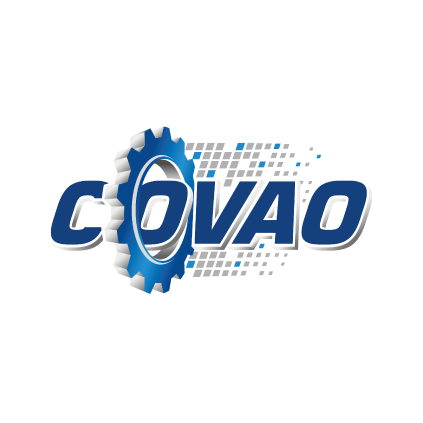
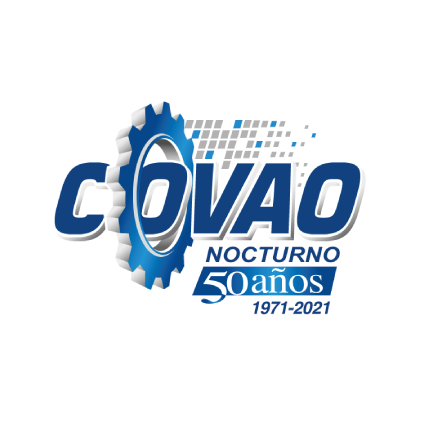
Botones
- Inclusión de nuevas imágenes de los botones y en la página encuentro-vocaciones
- Inclusión en el banner el logo y enlace al encuentro

Changed region(s): [[0.1229, 0.2459, 0.8913, 0.7683], [0.7376, 0.3073, 0.7683, 0.3381]]

diff --git a/css/master.css b/css/master.css
@@ -68,10 +68,26 @@ a.btn-principal {
   color: black!important;
 
 }
+a.btn-text-encuentro {
+  color: white!important;
+}
 
 a.btn-principal:hover {
   color:white!important;
   font-weight: bold;
+}
+
+.btn-principal.focus, 
+.btn-principal.active,
+.btn-principal:not(:disabled):not(.disabled):active:focus
+{
+  color: transparent;
+  background-image: none;
+  background-color: transparent;
+  border: none;
+  border-color: transparent; 
+  box-shadow: none;
+  outline: none;
 }
 
 .ug-under-780.ug-videoskin-right-thumb .ug-thumb-title {
@@ -201,6 +217,17 @@ div.btn-col {
   box-shadow: 3px 3px 0px 0px rgba(0,159,199,0.61)!important;
     background-color: #F18C00!important;
 }
+.btn-encuentro {
+  border-radius: 10px 10px 10px 10px!important;
+  -moz-border-radius: 10px 10px 10px 10px!important;
+  -webkit-border-radius: 10px 10px 10px 10px!important;
+  border: 0px solid #e50b67!important;
+  -webkit-box-shadow: 3px 3px 0px 0px rgba(0,159,199,0.61)!important;
+  -moz-box-shadow: 3px 3px 0px 0px rgba(0,159,199,0.61)!important;
+  box-shadow: 3px 3px 0px 0px rgba(0,159,199,0.61)!important;
+    background-color: #e50b67!important;
+    color: white!important;
+}
 
 .ih-item.circle {
     max-width: 100px!important;
@@ -329,8 +356,9 @@ div.btn-col {
 .carousel, .carousel-inner, .carousel-item{
   max-height: 450px!important;
   max-width: 535px;
-  margin-top: 15%;
+  margin-top: 18%;
 }
+
 /* fin carousel */
 
 /* modal*/

diff --git a/js/main.js b/js/main.js
@@ -47,7 +47,7 @@ function callInfoFooter() {
   $('#imgRight').addClass("img-title");
   $('#imgLeft').addClass("img-title");
   $("#text-footer").html("©2018 Ministerio de Educacion Pública de Costa Rica. Todos los derechos reservados.<br>Elaborado por DIG y DRTE, en colaboración con la OEI")
-  $("#sec-footer").html("<span><img class='img-footer' src='../img/img-logo-oei.jpg' alt='imagen del logo de la OEI'></span>");
+  // $("#sec-footer").html("<span><img class='img-footer' src='../img/img-logo-oei.jpg' alt='imagen del logo de la OEI'></span>");
   $(window).resize(function(){
       if ($(window).width() > 700){
         $(".text-footer").html("©2018 Ministerio de Educacion Pública de Costa Rica. Todos los derechos reservados.<br>Elaborado por DIG y DRTE, en colaboración con la OEI")

diff --git a/main_app/encuentro-vocacional.php b/main_app/encuentro-vocacional.php
@@ -76,15 +76,15 @@
         <li class="breadcrumb-item">
           <a href="principal.php">Inicio</a>
         </li>
-        <li class="breadcrumb-item active">Enlaces</li>
+        <li class="breadcrumb-item active">Encuentro Vocacional Virtual</li>
       </ol>
       <h3>BIENVENIDOS</h3>
-      <!-- <hr>
+      <hr>
           <div class="video-intro">
-              <iframe src="https://www.youtube.com/embed/vuYLhI1_ONw" allowfullscreen></iframe>
+              <iframe src="https://www.youtube.com/embed/vuYLhI1_ONw?=7" allowfullscreen></iframe>
           </div>
       <hr> 
-      <h4>Enlaces a universidades y videos</h4>-->
+      <h4>Enlaces a universidades y videos</h4>
       <p>Acá, vas a poder revisar las diferentes ofertas de formación, tanto de las universidades públicas como privadas, así como centros para-universitarios con carreras técnicas, adicional al enlace de cómo financiar tus estudios. Lo que tenés de hacer, es darle click, en el icono de las casas de enseñanzas, ahí aparecerá un video promocional de cada institución y el enlace que te llevará al portal de ese centro de estudio, recuerde que podes hacer las consultas en forma directa a las instituciones, mediante el chat, WhatsApp o número de teléfono que aparece en el sitio web. Adelante con su visita…<p>
       
       <!-- animated links -->
@@ -134,7 +134,7 @@
           </div><!-- div item  -->
           <div class="ih-item circle colored effect1"><a href="una.php">
                <div class="spinner"></div>
-              <div class="img"><img src="../img/buttons/bt-uned.png" alt="img"></div>
+              <div class="img"><img src="../img/buttons/bt-una.png" alt="img"></div>
               <div class="info">
                 <div class="info-back">
                   <h3>Click aquí</h3>
@@ -170,7 +170,7 @@
         </div><!-- div item  -->
         <div class="ih-item circle colored effect1"><a href="fundepos.php">
              <div class="spinner"></div>
-            <div class="img"><img src="../img/buttons/bt-fidelitas.png" alt="img"></div>
+            <div class="img"><img src="../img/buttons/bt-fundepos.png" alt="img"></div>
             <div class="info">
               <div class="info-back">
                 <h3>Click aquí</h3>
@@ -220,7 +220,7 @@
           </div><!-- div item  -->
           <div class="ih-item circle colored effect1"><a href="san-jose.php">
                <div class="spinner"></div>
-              <div class="img"><img src="../img/buttons/bt-veritas.png" alt="img"></div>
+              <div class="img"><img src="../img/buttons/bt-usj.png" alt="img"></div>
               <div class="info">
                 <div class="info-back">
                   <h3>Click aquí</h3>
@@ -230,7 +230,7 @@
           </div><!-- div item  -->
           <div class="ih-item circle colored effect1"><a href="isaac-newton.php">
                <div class="spinner"></div>
-              <div class="img"><img src="../img/buttons/bt-veritas.png" alt="img"></div>
+              <div class="img"><img src="../img/buttons/bt-uin.png" alt="img"></div>
               <div class="info">
                 <div class="info-back">
                   <h3>Click aquí</h3>
@@ -270,7 +270,7 @@
           </div><!-- div item  -->
           <div class="ih-item circle colored effect1"><a href="upi.php">
               <div class="spinner"></div>
-              <div class="img"><img src="../img/buttons/bt-politecnico.png" alt="img"></div>
+              <div class="img"><img src="../img/buttons/bt-upi.png" alt="img"></div>
               <div class="info">
                 <div class="info-back">
                   <h3>Click aquí</h3>
@@ -280,7 +280,7 @@
         </div><!-- div item  -->
         <div class="ih-item circle colored effect1"><a href="ulatina.php">
               <div class="spinner"></div>
-             <div class="img"><img src="../img/buttons/bt-latina.png" alt="img"></div>
+             <div class="img"><img src="../img/buttons/bt-ulatina.png" alt="img"></div>
              <div class="info">
                <div class="info-back">
                  <h3>Click aquí</h3>
@@ -301,7 +301,7 @@
         </div><!-- div item  -->
         <div class="ih-item circle colored effect1"><a href="ucimed.php">
             <div class="spinner"></div>
-            <div class="img"><img src="../img/buttons/bt-uam.png" alt="img"></div>
+            <div class="img"><img src="../img/buttons/bt-ucimed.png" alt="img"></div>
             <!-- <div class="img"><img class="img-enlace" src="../img/buttons/bt-uam.png" alt="img"></div> -->
             <div class="info">
                   <div class="info-back">
@@ -312,7 +312,7 @@
         </div><!-- div item  -->
         <div class="ih-item circle colored effect1"><a href="lead.php">
             <div class="spinner"></div>
-            <div class="img"><img src="../img/buttons/bt-uam.png" alt="img"></div>
+            <div class="img"><img src="../img/buttons/bt-lead.png" alt="img"></div>
             <!-- <div class="img"><img class="img-enlace" src="../img/buttons/bt-uam.png" alt="img"></div> -->
             <div class="info">
                   <div class="info-back">
@@ -354,7 +354,7 @@
         </div><!-- div item  -->
         <div class="ih-item circle colored effect1"><a href="uca.php">
           <div class="spinner"></div>
-          <div class="img"><img src="../img/buttons/bt-unibe.png" alt="img"></div>
+          <div class="img"><img src="../img/buttons/bt-uca.png" alt="img"></div>
           <div class="info">
               <div class="info-back">
                   <h3>Click aquí</h3>
@@ -390,7 +390,7 @@
       </div><!-- div item  -->
       <div class="ih-item circle colored effect1"><a href="cidep.php">
           <div class="spinner"></div>
-          <div class="img"><img src="../img/buttons/bt-etai.png" alt="img"></div>
+          <div class="img"><img src="../img/buttons/bt-cidep.png" alt="img"></div>
           <div class="info">
             <div class="info-back">
                   <h3>Click aquí</h3>
@@ -410,7 +410,7 @@
         </div> <!-- div item  -->
         <div class="ih-item circle colored effect1"><a href="cun-limon.php">
             <div class="spinner"></div>
-              <div class="img"><img src="../img/buttons/bt-ina.png" alt="img"></div>
+              <div class="img"><img src="../img/buttons/bt-cul.png" alt="img"></div>
               <div class="info">
               <div class="info-back">
                   <h3>Click aquí</h3>
@@ -420,7 +420,7 @@
         </div> <!-- div item  -->
         <div class="ih-item circle colored effect1"><a href="cuc.php">
             <div class="spinner"></div>
-              <div class="img"><img src="../img/buttons/bt-ina.png" alt="img"></div>
+              <div class="img"><img src="../img/buttons/bt-cuc.png" alt="img"></div>
               <div class="info">
               <div class="info-back">
                   <h3>Click aquí</h3>
@@ -448,7 +448,7 @@
       <div class="ih-item circle colored effect1">
         <a href="sinaes.php">
           <div class="spinner"></div>
-          <div class="img"><img class="img-enlace" src="../img/buttons/btn-conape.png" alt="img"></div>
+          <div class="img"><img class="img-enlace" src="../img/buttons/bt-sinaes.png" alt="img"></div>
           <div class="info">
             <div class="info-back">
                <h3>Click aquí</h3>

diff --git a/main_app/principal copy.php b/main_app/principal copy.php
@@ -114,13 +114,7 @@
   
               <!-- The slideshow -->
               <div class="carousel-inner">
-              <div class="carousel-item active">
-                    <img src="../img/logo-encuentro.png" alt="Encuentro Vocacional Virtual" class="img-fluid rounded">
-                    <div class="carousel-caption carousel-background d-md-block">
-                      <p><a  href="encuentro-vocacional.php">Encuentro Vocacional Virtual</a></p>
-                    </div>
-                </div>
-                <div class="carousel-item">
+                <div class="carousel-item active">
                     <!-- <img src="../img/imagen-video.png" class="img-fluid rounded" alt="Encuentro de mujeres" width="1100" height="900"> -->
                     <img src="../img/imagen-video.png" class="img-fluid rounded" alt="imagen de Orientació vocacional">
                     <div class="carousel-caption carousel-background d-md-block">
@@ -150,6 +144,12 @@
                     <img src="../img/insti_proyecto.png" alt="Noticia para inspirar a jovenes mujeres a estudiar" class="img-fluid rounded">
                     <div class="carousel-caption carousel-background d-md-block">
                       <p><a  href="https://www.mep.go.cr/noticias/instituciones-se-unen-inspirar-jovenes-mujeres-estudiar-carreras-ingenieriles-tecnologicas" target="_blank">Instituciones se unen para inspirar jóvenes</a></p>
+                    </div>
+                </div>
+                <div class="carousel-item">
+                    <img src="../img/logo-encuentro.png" alt="Encuentro Vocacional Virtual" class="img-fluid rounded">
+                    <div class="carousel-caption carousel-background d-md-block">
+                      <p><a  href="encuentro-vocacional.php" target="_blank">Encuentro Vocacional Virtual</a></p>
                     </div>
                 </div>
               </div>
@@ -184,6 +184,7 @@
               </div>
               <div class="btn-col btn-encuentro">
                  <a href="encuentro-vocacional.php" class="btn btn-principal btn-text-encuentro btn-block" role="button" id="but_08">
+                   <!-- <img src="././img/btn_encuentro_vocacional_virtual.png" alt="imagen del encuentro vocacional"> -->
                    <span>
                       Encuentro <br>
                       Vocacional Virtual <br>
